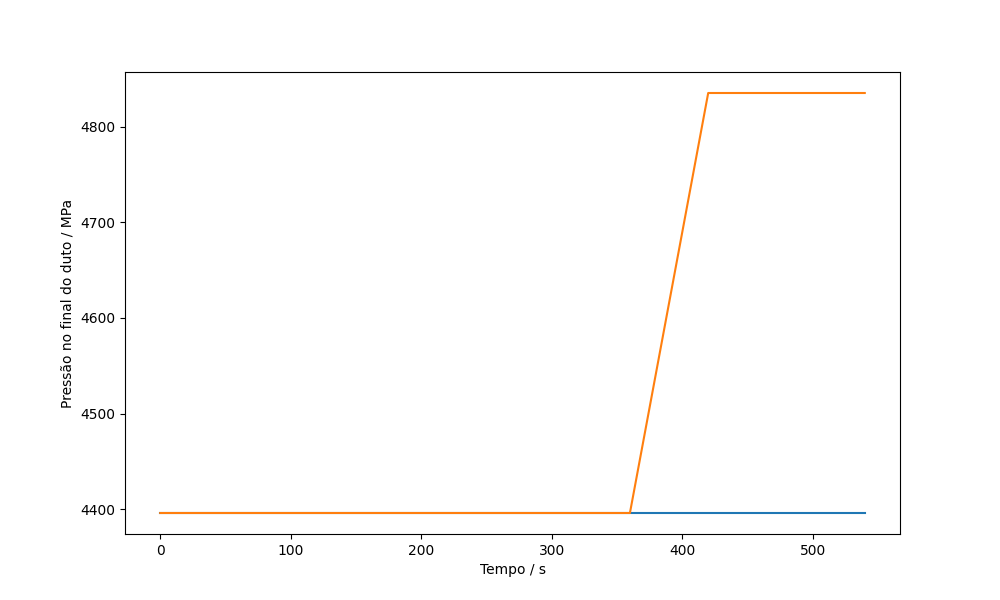
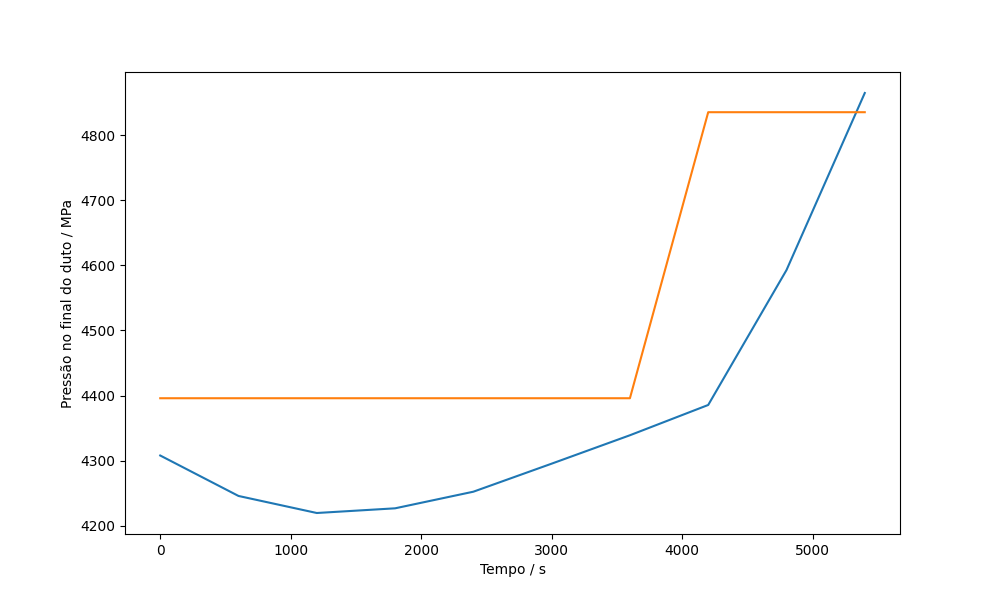
Agora está rodando, falta função econômica

diff --git a/ENGG21 - Controle Avançado/EMPC/EMPC.py b/ENGG21 - Controle Avançado/EMPC/EMPC.py
@@ -106,7 +106,7 @@ class EMPC:
         yMax = np.tile(np.ones((self.model.nY,1)), (self.p,1))
         yMin = np.tile(-np.ones((self.model.nY,1)), (self.p,1))
         uMax = np.tile(np.ones((self.model.nU,1)), (self.m,1))
-        uMin = np.tile(-np.ones((self.model.nU,1)), (self.m,1))
+        uMin = np.tile(-np.array([[-0.1],[1],[1],[1]]), (self.m,1))
         dUMax = np.tile(np.ones((self.model.nU,1))/5, (self.m,1))
 
         w = np.block([[yMax],
@@ -153,12 +153,9 @@ class EMPC:
             x_mpc = self.Atil @ x_k + self.Btil @ deltaU_mpc[:,k].reshape(-1,1)
             y_mpc = self.Ctil @ x_k + self.Dtil @ deltaU_mpc[:,k].reshape(-1,1)
 
-            if k == 5:
-                print("test")
-
             ## Estimação de estados com filtro de Kalman
             x_k = x_mpc + KF @ (self.model.normalize(self.y_value[:,k], 'y') - y_mpc)
-            z_k = np.block([[x_k], [y_sp]])
+            z_k = np.block([[x_k], [y_sp]])             
 
     def kalmanFilter(self, iter = 100):
         covMedido = .5
@@ -225,7 +222,7 @@ if __name__ == "__main__":
     # Configurações do Controlador:
     p = 10 # Horizonte de Predição
     m = 3 # Horizonte de Controle
-    Q = np.diag([1,1,10]) # Peso das Saídas
+    Q = np.diag([1,5,10]) # Peso das Saídas
     R = np.eye(model.nU) # Peso das Entradas
     iter = 10 # Pontos para simulação do controlador
 

diff --git a/ENGG21 - Controle Avançado/EMPC/model2ss.py b/ENGG21 - Controle Avançado/EMPC/model2ss.py
@@ -15,7 +15,7 @@ import matplotlib.pyplot as plt
 
 class linDiscretizeComp():
     def __init__(self):
-        self.dt = 60
+        self.dt = 600
         self.list_names = ["CH4", "C2H6", "C3H8", "iC4H10", "nC4H10", "iC5H12", "nC5H12", 
                   "nC6H14", "nC7H16", "nC8H18", "nC9H20", "nC10H22", "nC11H24", 
                    "nC12H26", "nC14H30", "N2", "H2O", "CO2", "C15+"]

diff --git a/ENGG21 - Controle Avançado/EMPC/libs/simulation_duto.py b/ENGG21 - Controle Avançado/EMPC/libs/simulation_duto.py
@@ -40,8 +40,7 @@ class SimuladorDuto:
 
         y_current, z_current = y0, z0
 
-        for i in range(1, self.n_steps):
-
+        for i in range(0, self.n_steps):
             if i == 300:
                 u_current[0] = 700.0
             elif i == 600:
